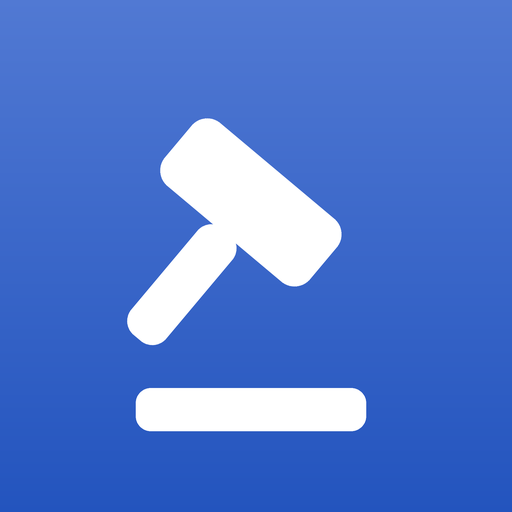
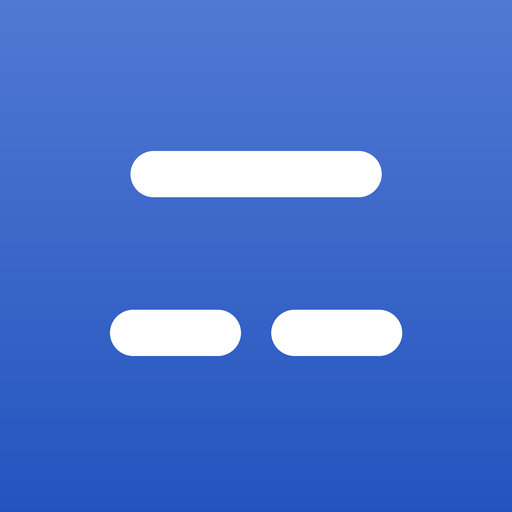
기일노트 아이콘 — 판사봉 대신 삼면
판사봉은 클리셰라 jae가 물렸다. 후보 여섯을 한 장에 깔아 1번을 골랐다.
재판부 한 줄 위, 원고·피고 두 줄 아래 — 노트 탭의 레인 구조 그대로다.

Changed region(s): [[0.2188, 0.2188, 0.75, 0.7188], [0.25, 0.75, 0.7188, 0.8438], [0.5312, 0.5938, 0.8125, 0.7188]]

diff --git a/docs/sw.js b/docs/sw.js
@@ -1,5 +1,5 @@
 /* 노트앱 서비스워커 — 앱 껍데기를 통째로 캐시한다. 판이 바뀌면 V 가 바뀌어 옛 캐시는 지운다 */
-const V="notedesk-6a046ca4e0";
+const V="notedesk-b6b530287e";
 const SHELL=["./", "./index.html", "./vendor/jszip.min.js", "./sangdam/icon-180.png", "./sangdam/icon-192.png", "./gijil/", "./gijil/index.html", "./gijil/manifest.webmanifest", "./gijil/icon-180.png", "./gijil/icon-192.png", "./gijil/icon-512.png", "./josa/", "./josa/index.html", "./josa/manifest.webmanifest", "./josa/icon-180.png", "./josa/icon-192.png", "./josa/icon-512.png", "./sangdam/", "./sangdam/index.html", "./sangdam/manifest.webmanifest", "./sangdam/icon-512.png"];
 self.addEventListener("install",e=>{
   e.waitUntil(caches.open(V).then(c=>c.addAll(SHELL.map(u=>new Request(u,{cache:"reload"})))).then(()=>self.skipWaiting()));

diff --git a/빌드.py b/빌드.py
@@ -167,21 +167,13 @@ def _rr(d, box, r, w, col):
 
 
 def _mark_gijil(d, S, col, bg):
-    """기일 = 법정. 판사봉과 받침 — 기울어진 봉이 한눈에 법정을 말한다."""
-    from PIL import Image, ImageDraw
-    L = Image.new("RGBA", (S, S), (0, 0, 0, 0))
-    g = ImageDraw.Draw(L)
-    cx, cy = S * .49, S * .395
-    hw, hh = S * .185, S * .080          # 봉 머리
-    g.rounded_rectangle([cx - hw, cy - hh, cx + hw, cy + hh], radius=int(hh * .5), fill=col)
-    sw = S * .044                        # 자루 — 머리의 절반 남짓, 길게 빼야 봉으로 읽힌다
-    g.rounded_rectangle([cx - sw, cy + hh - S * .006, cx + sw, cy + S * .345],
-                        radius=int(sw * .8), fill=col)
-    L = L.rotate(-40, resample=Image.BICUBIC, center=(cx, cy))
-    d._image.alpha_composite(L)
-    bw, bh = S * .225, S * .042          # 받침
-    by = S * .800
-    d.rounded_rectangle([cx - bw, by - bh, cx + bw, by + bh], radius=int(bh * .7), fill=col)
+    """기일 = 법정의 삼면. 재판부 한 줄 위, 원고·피고 두 줄 아래 — 이 앱 노트 탭의 구조 그대로다."""
+    def bar(x0, x1, y0, y1):
+        d.rounded_rectangle([x0 * S, y0 * S, x1 * S, y1 * S],
+                            radius=int((y1 - y0) * S * .5), fill=col)
+    bar(.255, .745, .295, .385)          # 재판부
+    bar(.215, .470, .605, .695)          # 원고
+    bar(.530, .785, .605, .695)          # 피고
 
 
 def _mark_josa(d, S, col, bg):
